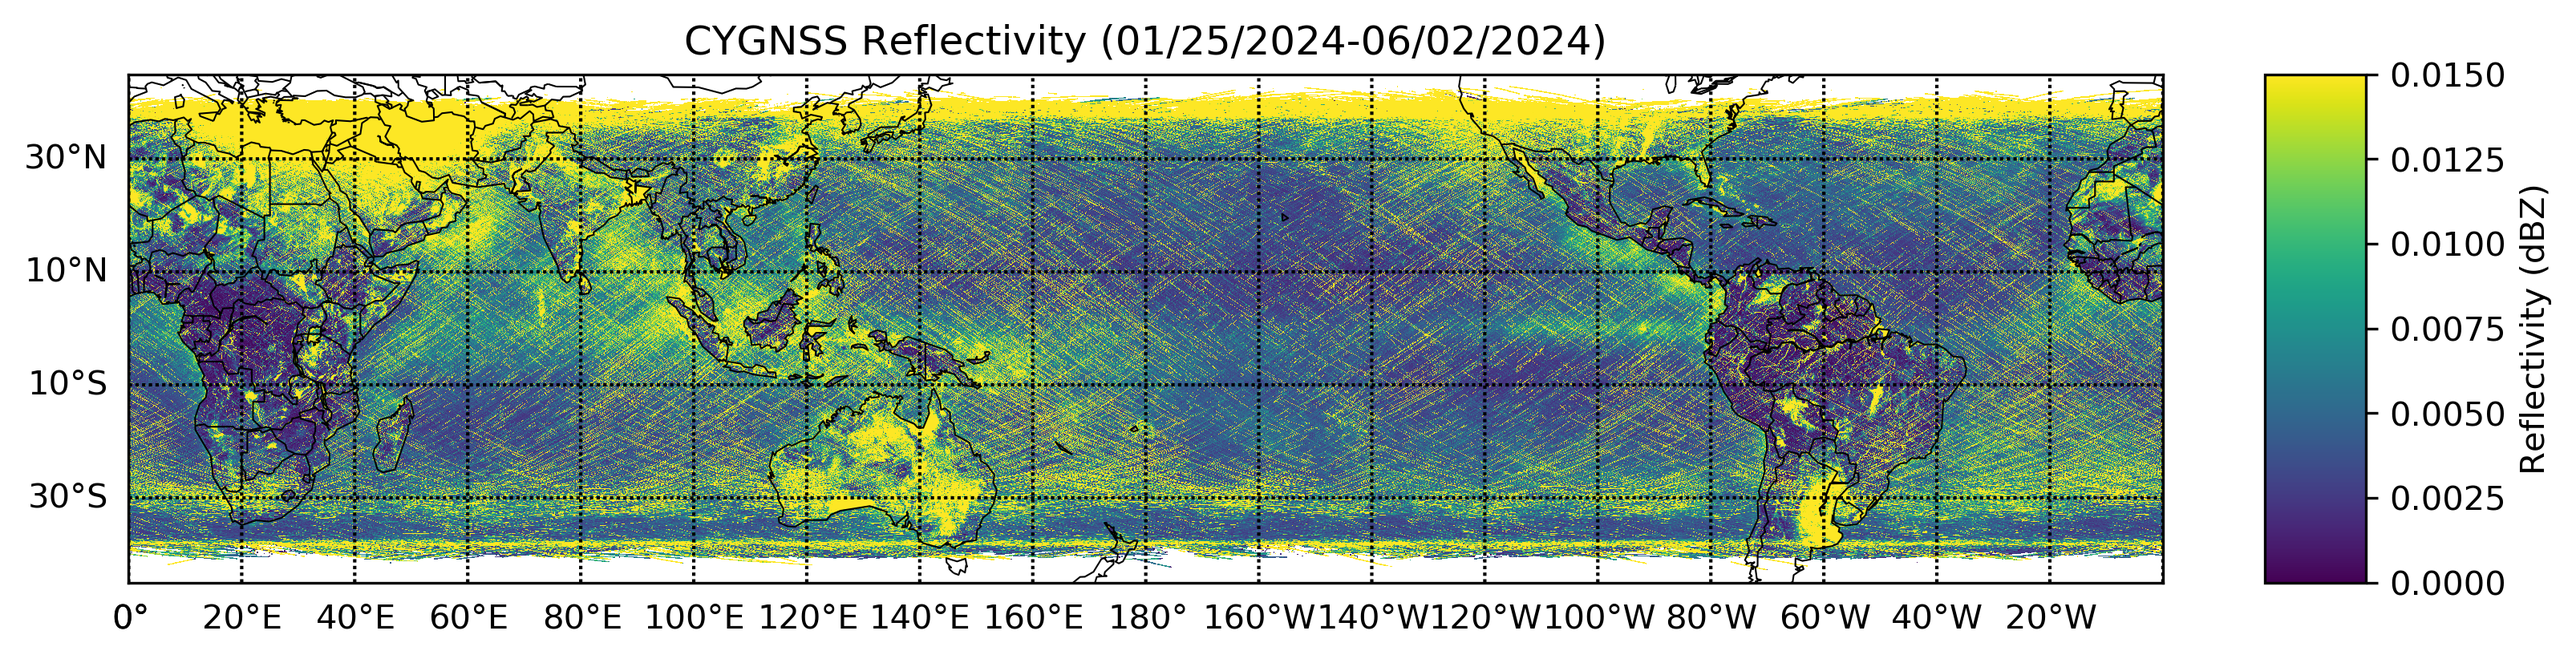
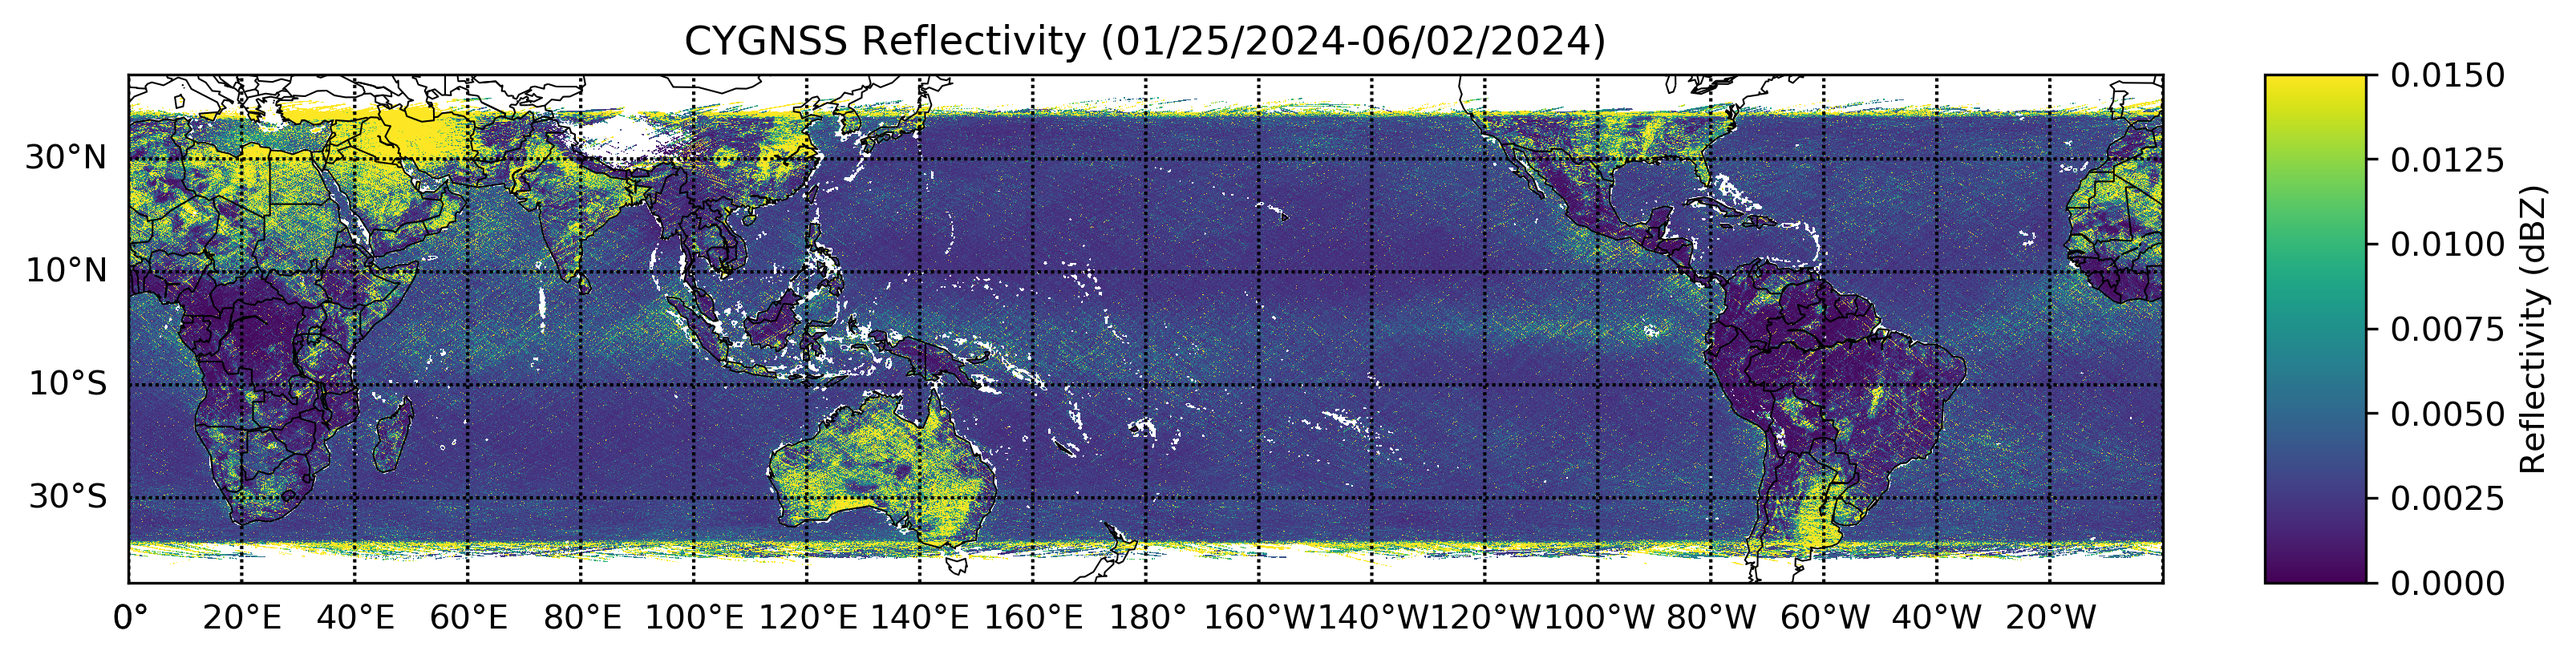
implemented CYGNSS quality control

diff --git a/make_grid_CYGNSS.py b/make_grid_CYGNSS.py
@@ -3,6 +3,7 @@ from pathlib import Path
 import numpy as np
 import pickle
 from datetime import datetime
+from collections import Counter
 
 # Task: make a grid of CYGNSS SNR and Reflectivity data for comparison and validation of SPIRE data
 # very few comments because the logic is almost exactly the same as make_grid.py  
@@ -10,20 +11,23 @@ from datetime import datetime
 def read_file(file, grid_snr, grid_refl, grid_count_snr, grid_count_refl):
     nc_file = netCDF4.Dataset(file, "r", format="NETCDF4")
     
-    # lon ~ [0, 360], lat ~ [-45, 45]
-    # [:] needed to convert from netCDF4 variable arrays to float arrays
+    # Read variables from the netCDF file
     refl = nc_file.variables['reflectivity_peak'][:]
     snr = nc_file.variables['ddm_snr'][:]
     lon = nc_file.variables['sp_lon'][:]
     lat = nc_file.variables['sp_lat'][:]
+    quality = nc_file.variables['quality_flags'][:]
+    quality_2 = nc_file.variables['quality_flags_2'][:]
 
     x = (lon / 0.05).astype(int)
-    y = ((lat + 45) / 0.05).astype(int) # about half of the range
+    y = ((lat + 45) / 0.05).astype(int)  # about half of the range
 
     x = np.clip(x, 0, 7199)
 
-    valid_snr = ~np.ma.getmaskarray(snr) & ~np.isnan(snr)
-    valid_refl = ~np.ma.getmaskarray(refl) & ~np.isnan(refl)
+    valid_quality = ((((quality & 2048) == 0) | ((quality & 4096) == 0)) & ((quality_2 & 2048) == 0))
+    valid_quality = ((quality & 1) == 0) | ((quality_2 & 2048) == 0)
+    valid_snr = ~np.ma.getmaskarray(snr) & ~np.isnan(snr) & valid_quality
+    valid_refl = ~np.ma.getmaskarray(refl) & ~np.isnan(refl) & valid_quality & (snr <= 2)
 
     grid_snr[y[valid_snr], x[valid_snr]] += snr[valid_snr]
     grid_count_snr[y[valid_snr], x[valid_snr]] += 1
@@ -36,7 +40,7 @@ def read_file(file, grid_snr, grid_refl, grid_count_snr, grid_count_refl):
     return grid_snr, grid_refl, grid_count_snr, grid_count_refl
 
 if __name__ == "__main__":
-    directory = Path('/data01/jyin/CYGNSS/data/V3.2/2023/')
+    directory = Path('/data01/jyin/CYGNSS/data/V3.2/2024/')
 
     # data for comparison with SPIRE
     start_date = datetime.strptime("20240125", "%Y%m%d")
@@ -52,7 +56,7 @@ if __name__ == "__main__":
         if folder.is_dir():
             for file in folder.iterdir():
                 if file.is_file() and file.suffix == '.nc':
-                    date_str = filename.split("-e")[-1][:8]
+                    date_str = file.name.split("-e")[-1][:8]
                     file_date = datetime.strptime(date_str, "%Y%m%d")
 
                     if start_date <= file_date <= end_date:
